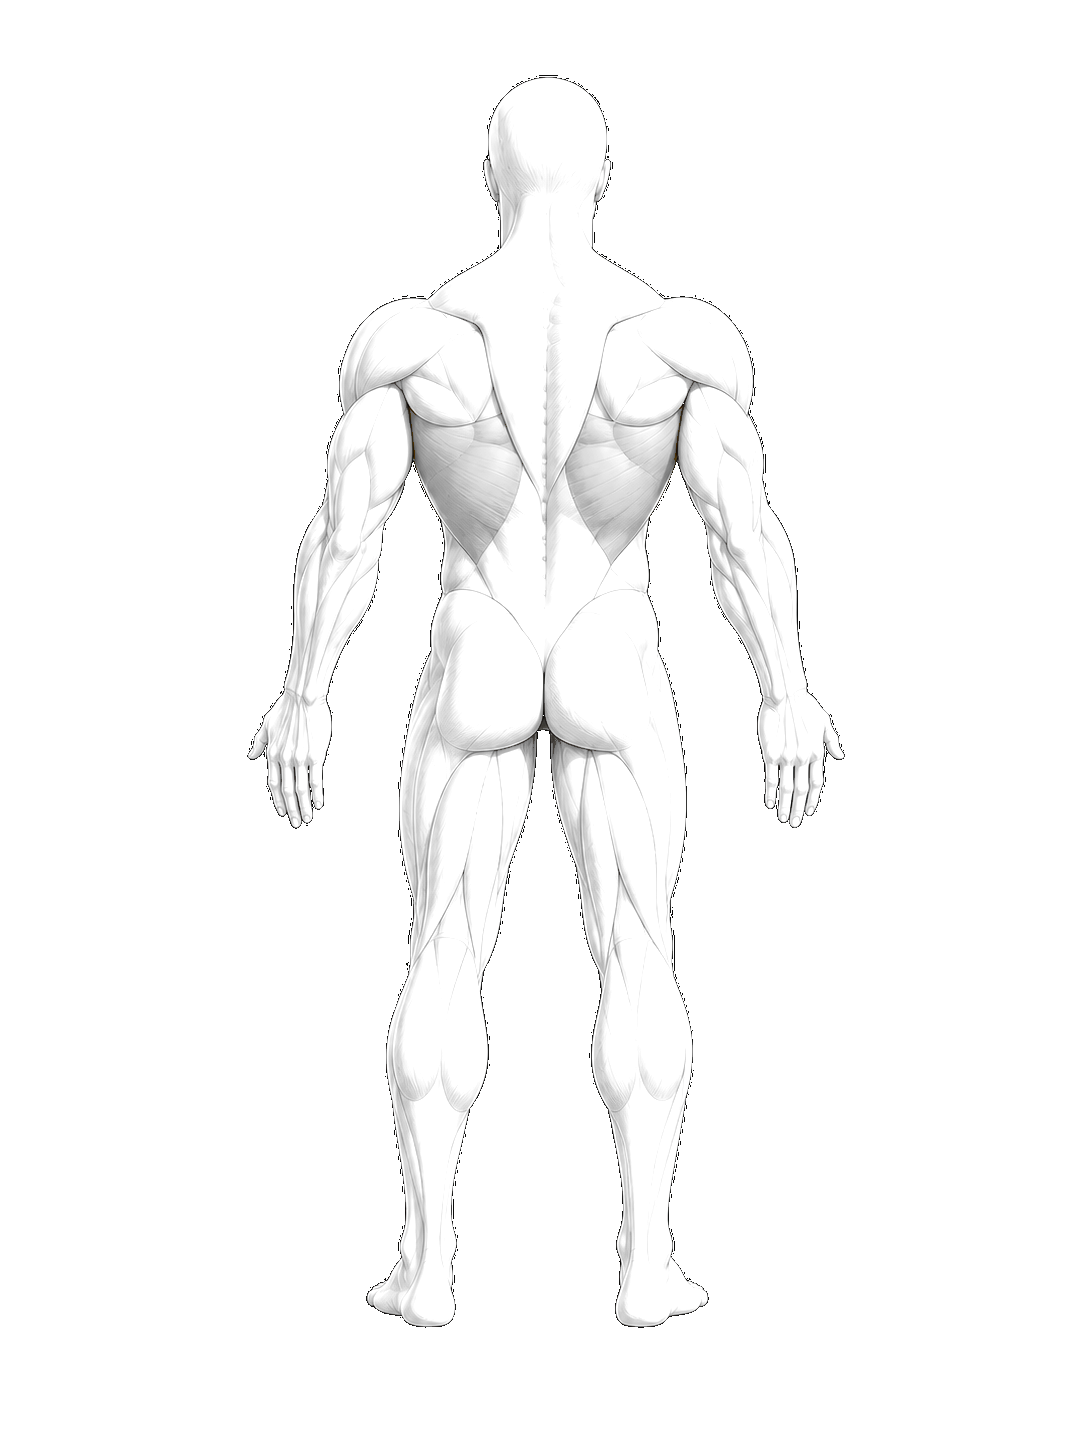
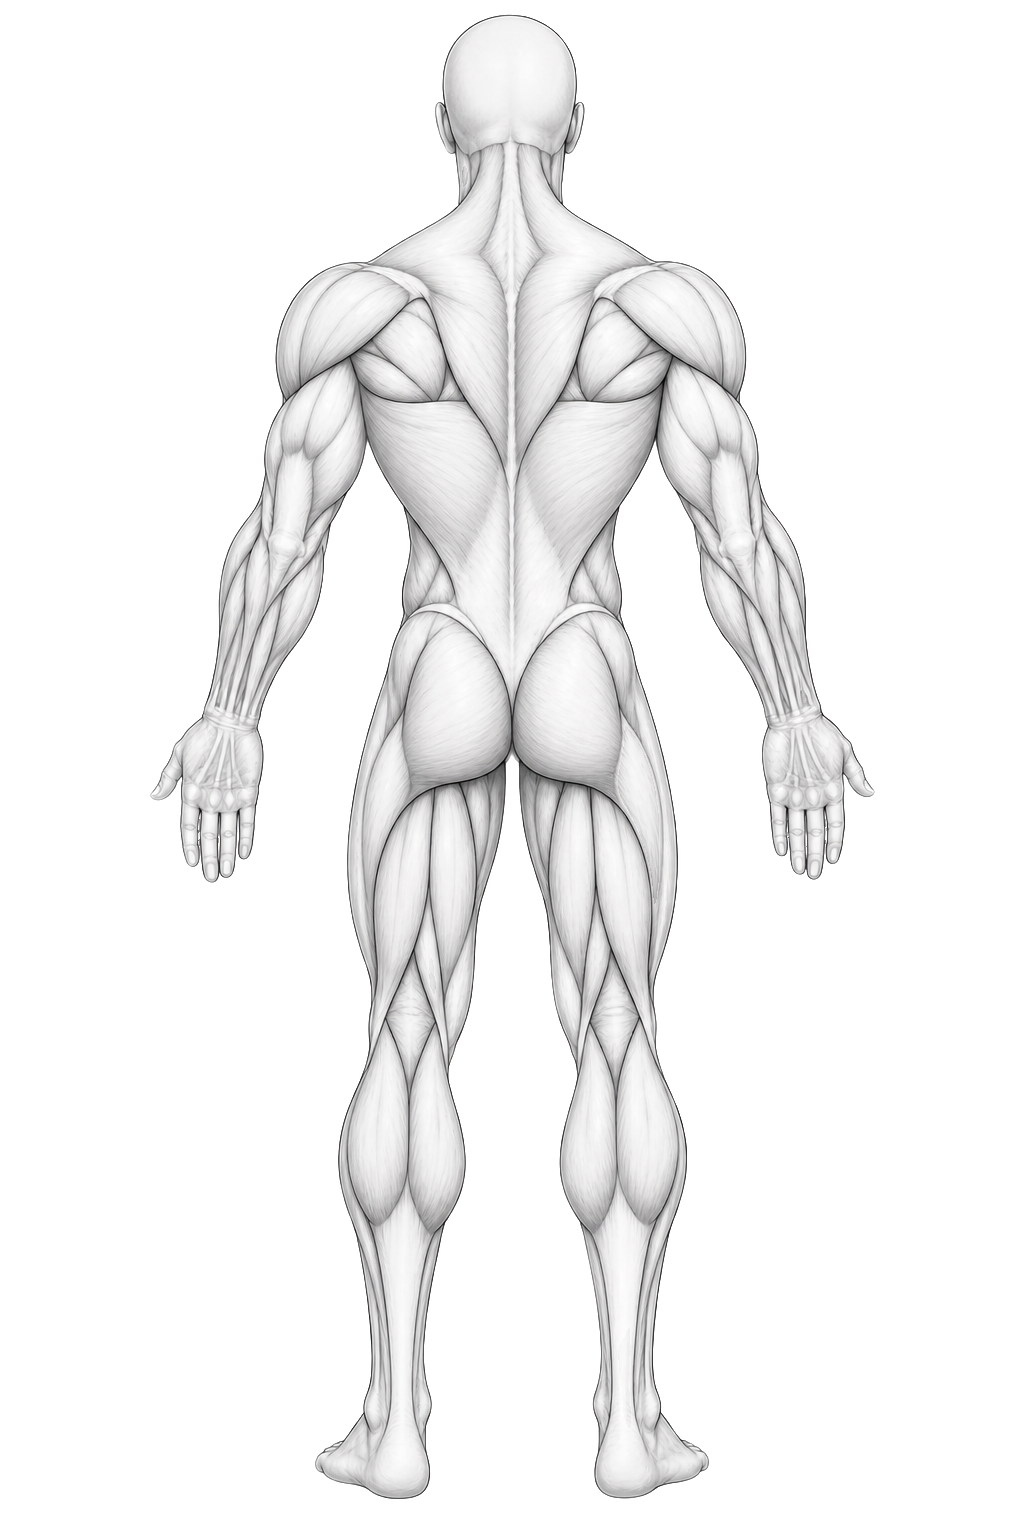
근육부위(후면) 인체 이미지 교체 + 부위 표시 좌표 재조정 (#457)
icons/muscle/back.png를 사용자가 제공한 새 인체 일러스트로 교체. 배경
제거는 rembg(u2net)로 처리한 뒤, (1) 모델이 실루엣 내부 일부를 배경으로
잘못 분류한 작은 구멍들을 테두리에 연결되지 않은 투명 영역으로 검출해
원본 이미지의 RGB로 복원, (2) rembg 출력이 반투명 가장자리의 RGB를
프리멀티플라이해 어두운 테두리(halo)가 생기던 것을 알파로 나눠 되돌리는
후처리를 거쳐 정리.

front.png 때와 동일한 이유로 SVG 부위 표시선/점 좌표도 재조정 — 새
이미지는 인물이 프레임에서 차지하는 비율이 기존보다 커서(가로 71%/세로
97% vs 기존 55%/86%) 6개 부위(가슴/어깨/팔/등/하체/코어) 좌표를 새 이미지
위에서 grid 오버레이로 실측해 다시 잡음.

Changed region(s): [[0.1562, 0.0, 0.8438, 0.9945]]

diff --git a/index.html b/index.html
@@ -8315,19 +8315,22 @@ html.light-mode-on #weightModal .food-modal-form label {
         <circle class="muscle-finder-dot" data-part="core" cx="48" cy="50" r="1"></circle>
       </svg>
       <!-- 🔥 부위별 연결선(후면) -->
+      <!-- 🔥 back.png 교체(새 인체 이미지)에 맞춰 좌표 재조정 — front.png 때와 동일한
+           이유(새 이미지는 인물이 프레임에서 차지하는 비율이 기존보다 커서: 가로
+           71%/세로 97% vs 기존 55%/86%) -->
       <svg class="muscle-finder-lines hidden" id="muscleFinderLinesBack" viewBox="0 0 100 100" preserveAspectRatio="none">
-        <line class="muscle-finder-line" data-part="chest" x1="0" y1="24" x2="35" y2="30"></line>
-        <circle class="muscle-finder-dot" data-part="chest" cx="35" cy="30" r="1"></circle>
-        <line class="muscle-finder-line" data-part="shoulder" x1="100" y1="20" x2="69" y2="23"></line>
-        <circle class="muscle-finder-dot" data-part="shoulder" cx="69" cy="23" r="1"></circle>
-        <line class="muscle-finder-line" data-part="arm" x1="0" y1="42" x2="30" y2="36"></line>
-        <circle class="muscle-finder-dot" data-part="arm" cx="30" cy="36" r="1"></circle>
-        <line class="muscle-finder-line" data-part="back" x1="100" y1="38" x2="62" y2="37"></line>
-        <circle class="muscle-finder-dot" data-part="back" cx="62" cy="37" r="1"></circle>
-        <line class="muscle-finder-line" data-part="lower" x1="0" y1="62" x2="44" y2="62"></line>
-        <circle class="muscle-finder-dot" data-part="lower" cx="44" cy="62" r="1"></circle>
-        <line class="muscle-finder-line" data-part="core" x1="100" y1="56" x2="57" y2="40"></line>
-        <circle class="muscle-finder-dot" data-part="core" cx="57" cy="40" r="1"></circle>
+        <line class="muscle-finder-line" data-part="chest" x1="0" y1="24" x2="38" y2="25"></line>
+        <circle class="muscle-finder-dot" data-part="chest" cx="38" cy="25" r="1"></circle>
+        <line class="muscle-finder-line" data-part="shoulder" x1="100" y1="20" x2="65" y2="28"></line>
+        <circle class="muscle-finder-dot" data-part="shoulder" cx="65" cy="28" r="1"></circle>
+        <line class="muscle-finder-line" data-part="arm" x1="0" y1="42" x2="24" y2="40"></line>
+        <circle class="muscle-finder-dot" data-part="arm" cx="24" cy="40" r="1"></circle>
+        <line class="muscle-finder-line" data-part="back" x1="100" y1="38" x2="65" y2="40"></line>
+        <circle class="muscle-finder-dot" data-part="back" cx="65" cy="40" r="1"></circle>
+        <line class="muscle-finder-line" data-part="lower" x1="0" y1="62" x2="38" y2="67"></line>
+        <circle class="muscle-finder-dot" data-part="lower" cx="38" cy="67" r="1"></circle>
+        <line class="muscle-finder-line" data-part="core" x1="100" y1="56" x2="58" y2="48"></line>
+        <circle class="muscle-finder-dot" data-part="core" cx="58" cy="48" r="1"></circle>
       </svg>
 
       <!-- 🔥 부위 이름표(정면) -->
@@ -10038,7 +10041,7 @@ const settingsHeaderName = document.getElementById("settingsHeaderName");
 const settingsHeaderSub = document.getElementById("settingsHeaderSub");
 
 /* ✅ 앱 버전 정의 — 의미 있는 수정/배포마다 올림(설정 화면에서 "최신 버전 받았는지" 확인용) */
-const APP_VERSION = "0.8.76";
+const APP_VERSION = "0.8.77";
 const appVersionDisplay = document.getElementById("appVersionDisplay");
 if (appVersionDisplay) {
   appVersionDisplay.textContent = APP_VERSION;
